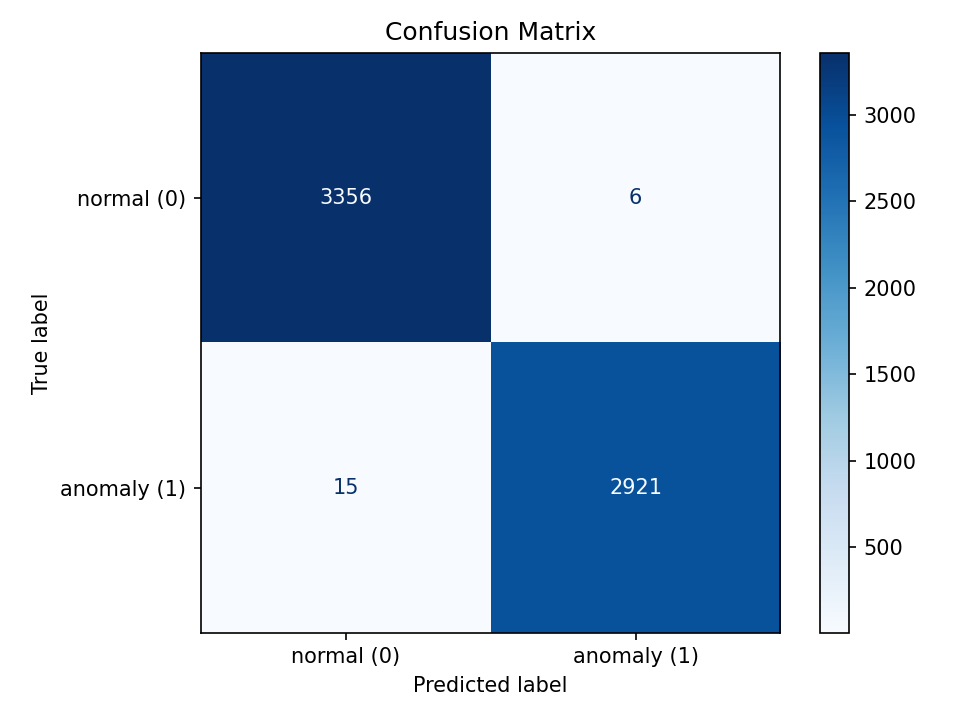
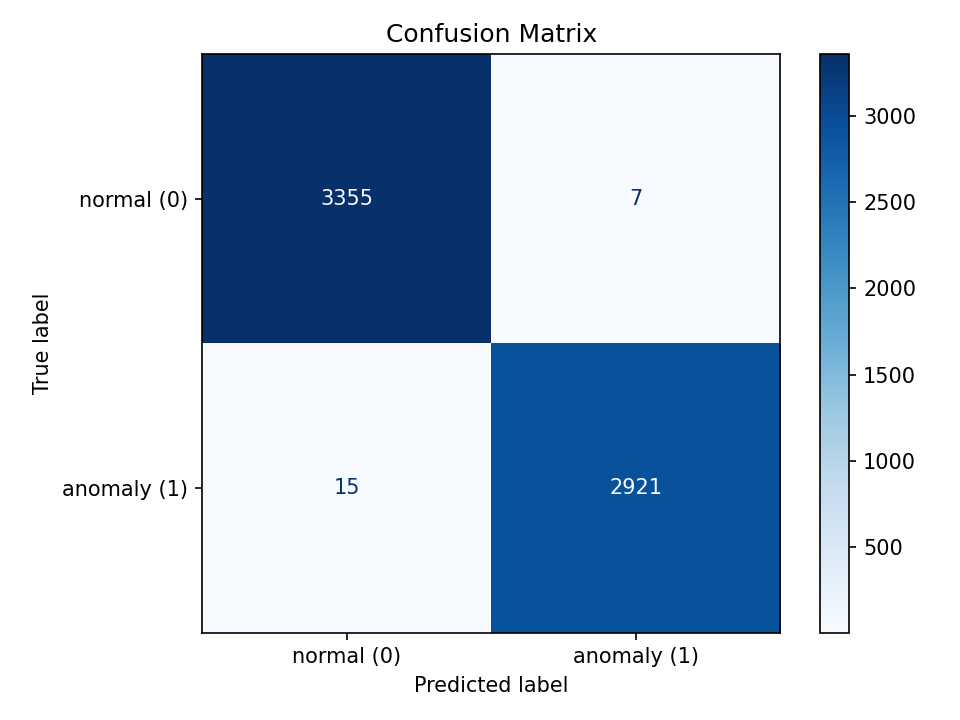
modifs

diff --git a/run.py b/run.py
@@ -21,7 +21,7 @@ def main(seed: int = 42, outdir: str = "outputs"):
     metrics["timestamp"] = datetime.now(UTC).isoformat() + "Z"
     with open(os.path.join(outdir, "metrics.json"), "w") as f:
         json.dump(metrics, f, indent=2)
-    print("Done. Metrics saved to outputs/metrics.json")
+    print("Done. Metrics have been saved to outputs/metrics.json")
 
 if __name__ == "__main__":
     main()
